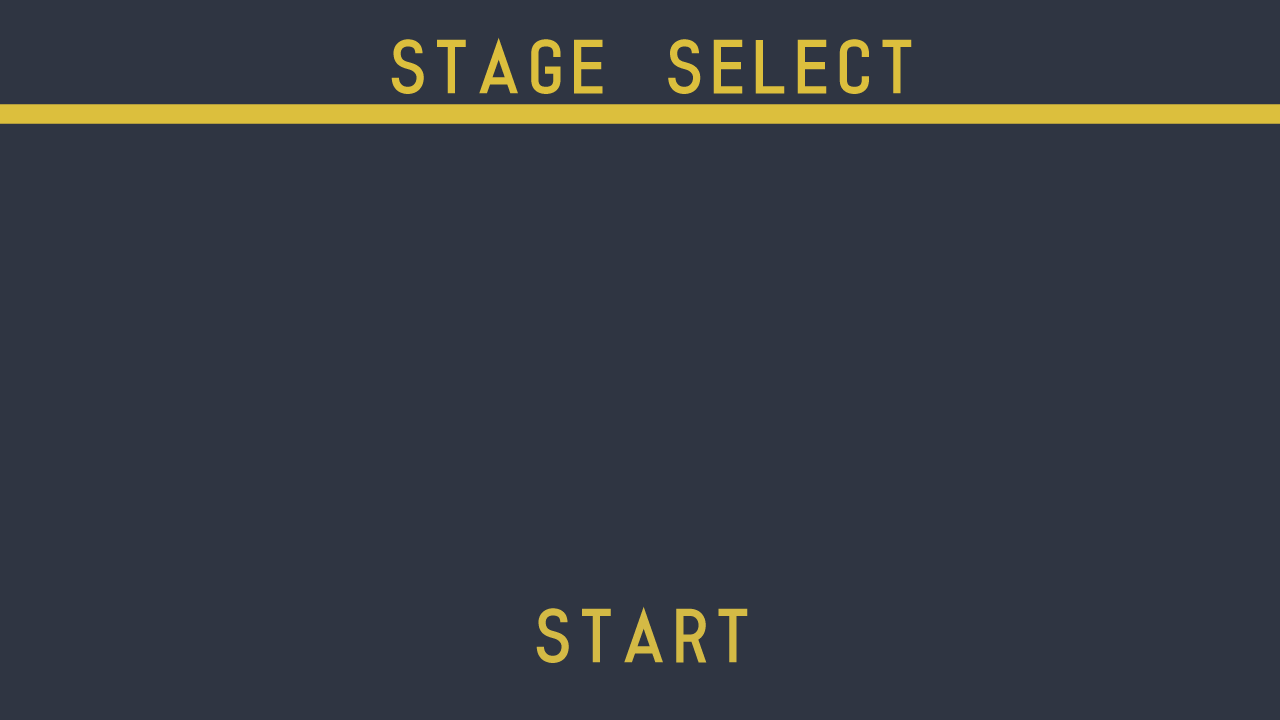
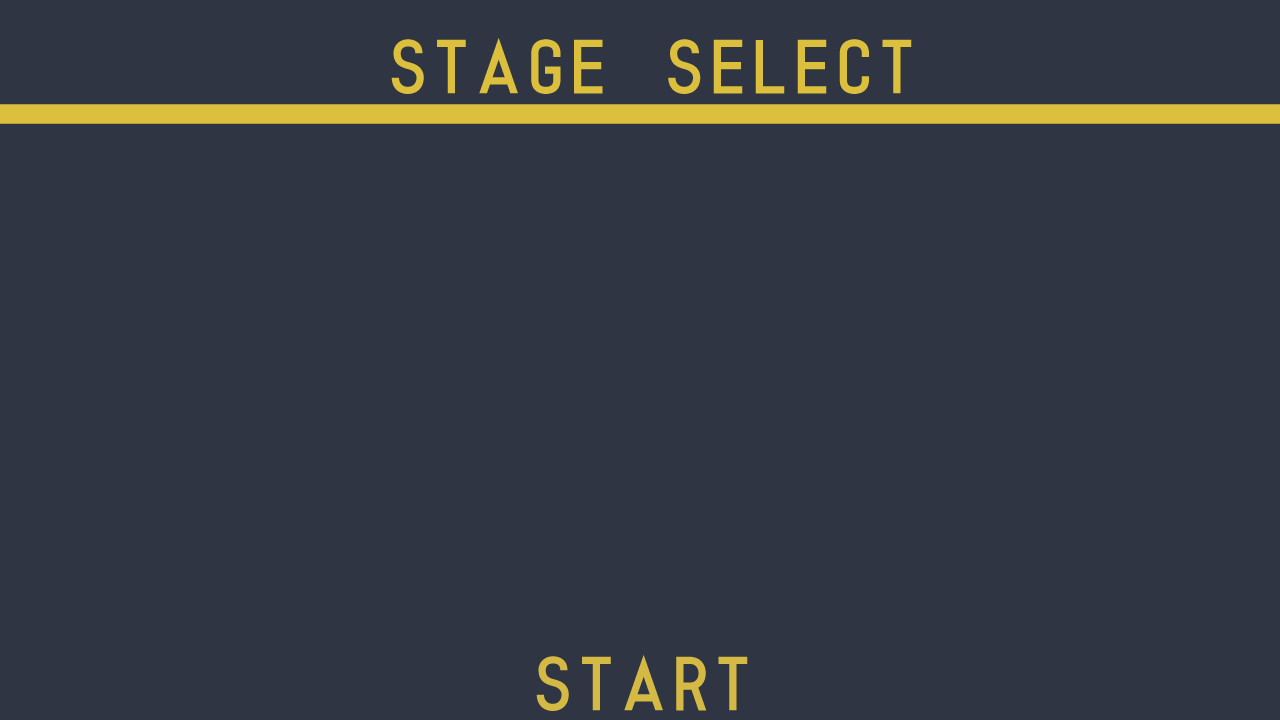
テクスチャの白飛び問題解決 ステージの選択番号応じてステージプレビューの画像が変化するように

Changed region(s): [[0.4062, 0.825, 0.5938, 1.0]]

diff --git a/Header/Object/StageSelectManager/StageSelectUI.cpp b/Header/Object/StageSelectManager/StageSelectUI.cpp
@@ -1,11 +1,21 @@
 #include "StageSelectUI.h"
+#include "StageSelectManager.h"
 
 void StageSelectUI::Init()
 {
+	// 選択マネージャーのインスタンス取得
+	stageSelectManager_ = StageSelectManager::GetInstance();
+
 	// ステージ選択画面
-	stageSelectUI_.sprite_.reset(Sprite::Create(TextureManager::Load("UI/TD2_3week_2/StageSelect/StageSelectUI.png")));
+	stageSelectUI_.sprite_.reset(Sprite::Create(TextureManager::Load("UI/TD2_3week_2/StageSelect/UI.png")));
 	stageSelectUI_.scale_ = { 1280.0f, 720.0f };
 	
+	// ステージプレビュー画像用UI
+	stagePreviewUI_.sprite_.reset(Sprite::Create(TextureManager::Load("UI/TD2_3week_2/StageSelect/Previews/Preview1.png")));
+	stagePreviewUI_.position_ = { 1280.0f / 2.0f, 380.0f };
+	stagePreviewUI_.scale_ = { 720.0f, 480.0f };
+	stagePreviewUI_.anchorPoint_ = { 0.5f, 0.5f };
+
 	// 左矢印UI
 	leftArrowUI_.sprite_.reset(Sprite::Create(TextureManager::Load("UI/TD2_3week_2/StageSelect/StageSelectCursorLeft.png")));
 	leftArrowUI_.position_ = { 35.0f, 400.0f };
@@ -21,21 +31,30 @@ void StageSelectUI::Init()
 
 void StageSelectUI::Update([[maybe_unused]] float deltaTime)
 {
-		
+	if (prevSelectedStageNumber_ != stageSelectManager_->GetSelectedStageNumber()) {
+		// テクスチャ名の取得
+		std::string textureName = "UI/TD2_3week_2/StageSelect/Previews/Preview" + std::to_string(stageSelectManager_->GetSelectedStageNumber() + 1) + ".png";
+		stagePreviewUI_.sprite_->SetTextureHaundle(TextureManager::Load(textureName));
+
+		// 選択ステージ番号の取得
+		prevSelectedStageNumber_ = stageSelectManager_->GetSelectedStageNumber();
+	}
 }
 
 void StageSelectUI::Draw()
 {
 	// 各UIスプライトの描画
 	stageSelectUI_.Draw(); // ステージ選択画面
+	stagePreviewUI_.Draw(); // ステージプレビュー
 	leftArrowUI_.Draw();   // ステージ選択画面左矢印
-	rightArrowUI_.Draw();  // ステージ選択画面
+	rightArrowUI_.Draw();  // ステージ選択画面右矢印
 }
 
 void StageSelectUI::DisplayImGui()
 {
 	ImGui::Begin("StageSelectUI");
 	stageSelectUI_.DisplayImGui("StageSelectUI");
+	stagePreviewUI_.DisplayImGui("StagePreviewUI");
 	leftArrowUI_.DisplayImGui("LeftArrowUI");
 	rightArrowUI_.DisplayImGui("RightArrowUI");
 	ImGui::End();

diff --git a/Header/Object/StageSelectManager/StageSelectUI.h b/Header/Object/StageSelectManager/StageSelectUI.h
@@ -1,6 +1,11 @@
 #pragma once
 #include <string>
+#include "../../../Engine/DirectBase/File/GlobalVariables.h"
+#include "../../../Utils/SoLib/SoLib.h"
 #include "../../../Engine/DirectBase/2D/Sprite.h"
+
+// クラスの前方宣言
+class StageSelectManager;
 
 /// <summary>
 /// ステージ選択画面のUIクラス
@@ -59,10 +64,20 @@ public: // メンバ関数
 
 private: // メンバ変数
 
+	// ステージ選択マネージャー
+	StageSelectManager* stageSelectManager_ = nullptr;
+
+	// 前フレーム選択したステージ番号
+	int prevSelectedStageNumber_;
+
 	/// スプライト関係
 	UISprite stageSelectUI_; // ステージ選択画面
+	UISprite stagePreviewUI_; // ステージプレビュー
 	UISprite leftArrowUI_;   // ステージ選択画面左矢印
-	UISprite rightArrowUI_;  // ステージ選択画面
+	UISprite rightArrowUI_;  // ステージ選択画面右矢印
+
+	// ステージプレビューのアニメーションタイマー
+	SoLib::DeltaTimer prevAnimTimer_;
 
 };
 

diff --git a/Header/Object/StageSelectManager/StageSelectManager.cpp b/Header/Object/StageSelectManager/StageSelectManager.cpp
@@ -33,6 +33,9 @@ void StageSelectManager::Update([[maybe_unused]]float deltaTime)
 			selectedStageNumber_ = maxLevelCount_ - 1;
 	}
 
+	// UIの更新処理
+	ui_.Update(deltaTime);
+
 }
 
 void StageSelectManager::Draw([[maybe_unused]] const Camera3D& camera)

diff --git a/Header/Object/StageSelectManager/StageSelectManager.h b/Header/Object/StageSelectManager/StageSelectManager.h
@@ -82,7 +82,7 @@ private: // メンバ変数
 	Input* input_ = nullptr;
 
 	// 選択中のステージ番号
-	int selectedStageNumber_ = 1;
+	int selectedStageNumber_ = 0;
 	// ステージの最大数
 	int maxLevelCount_ = 10;
 
